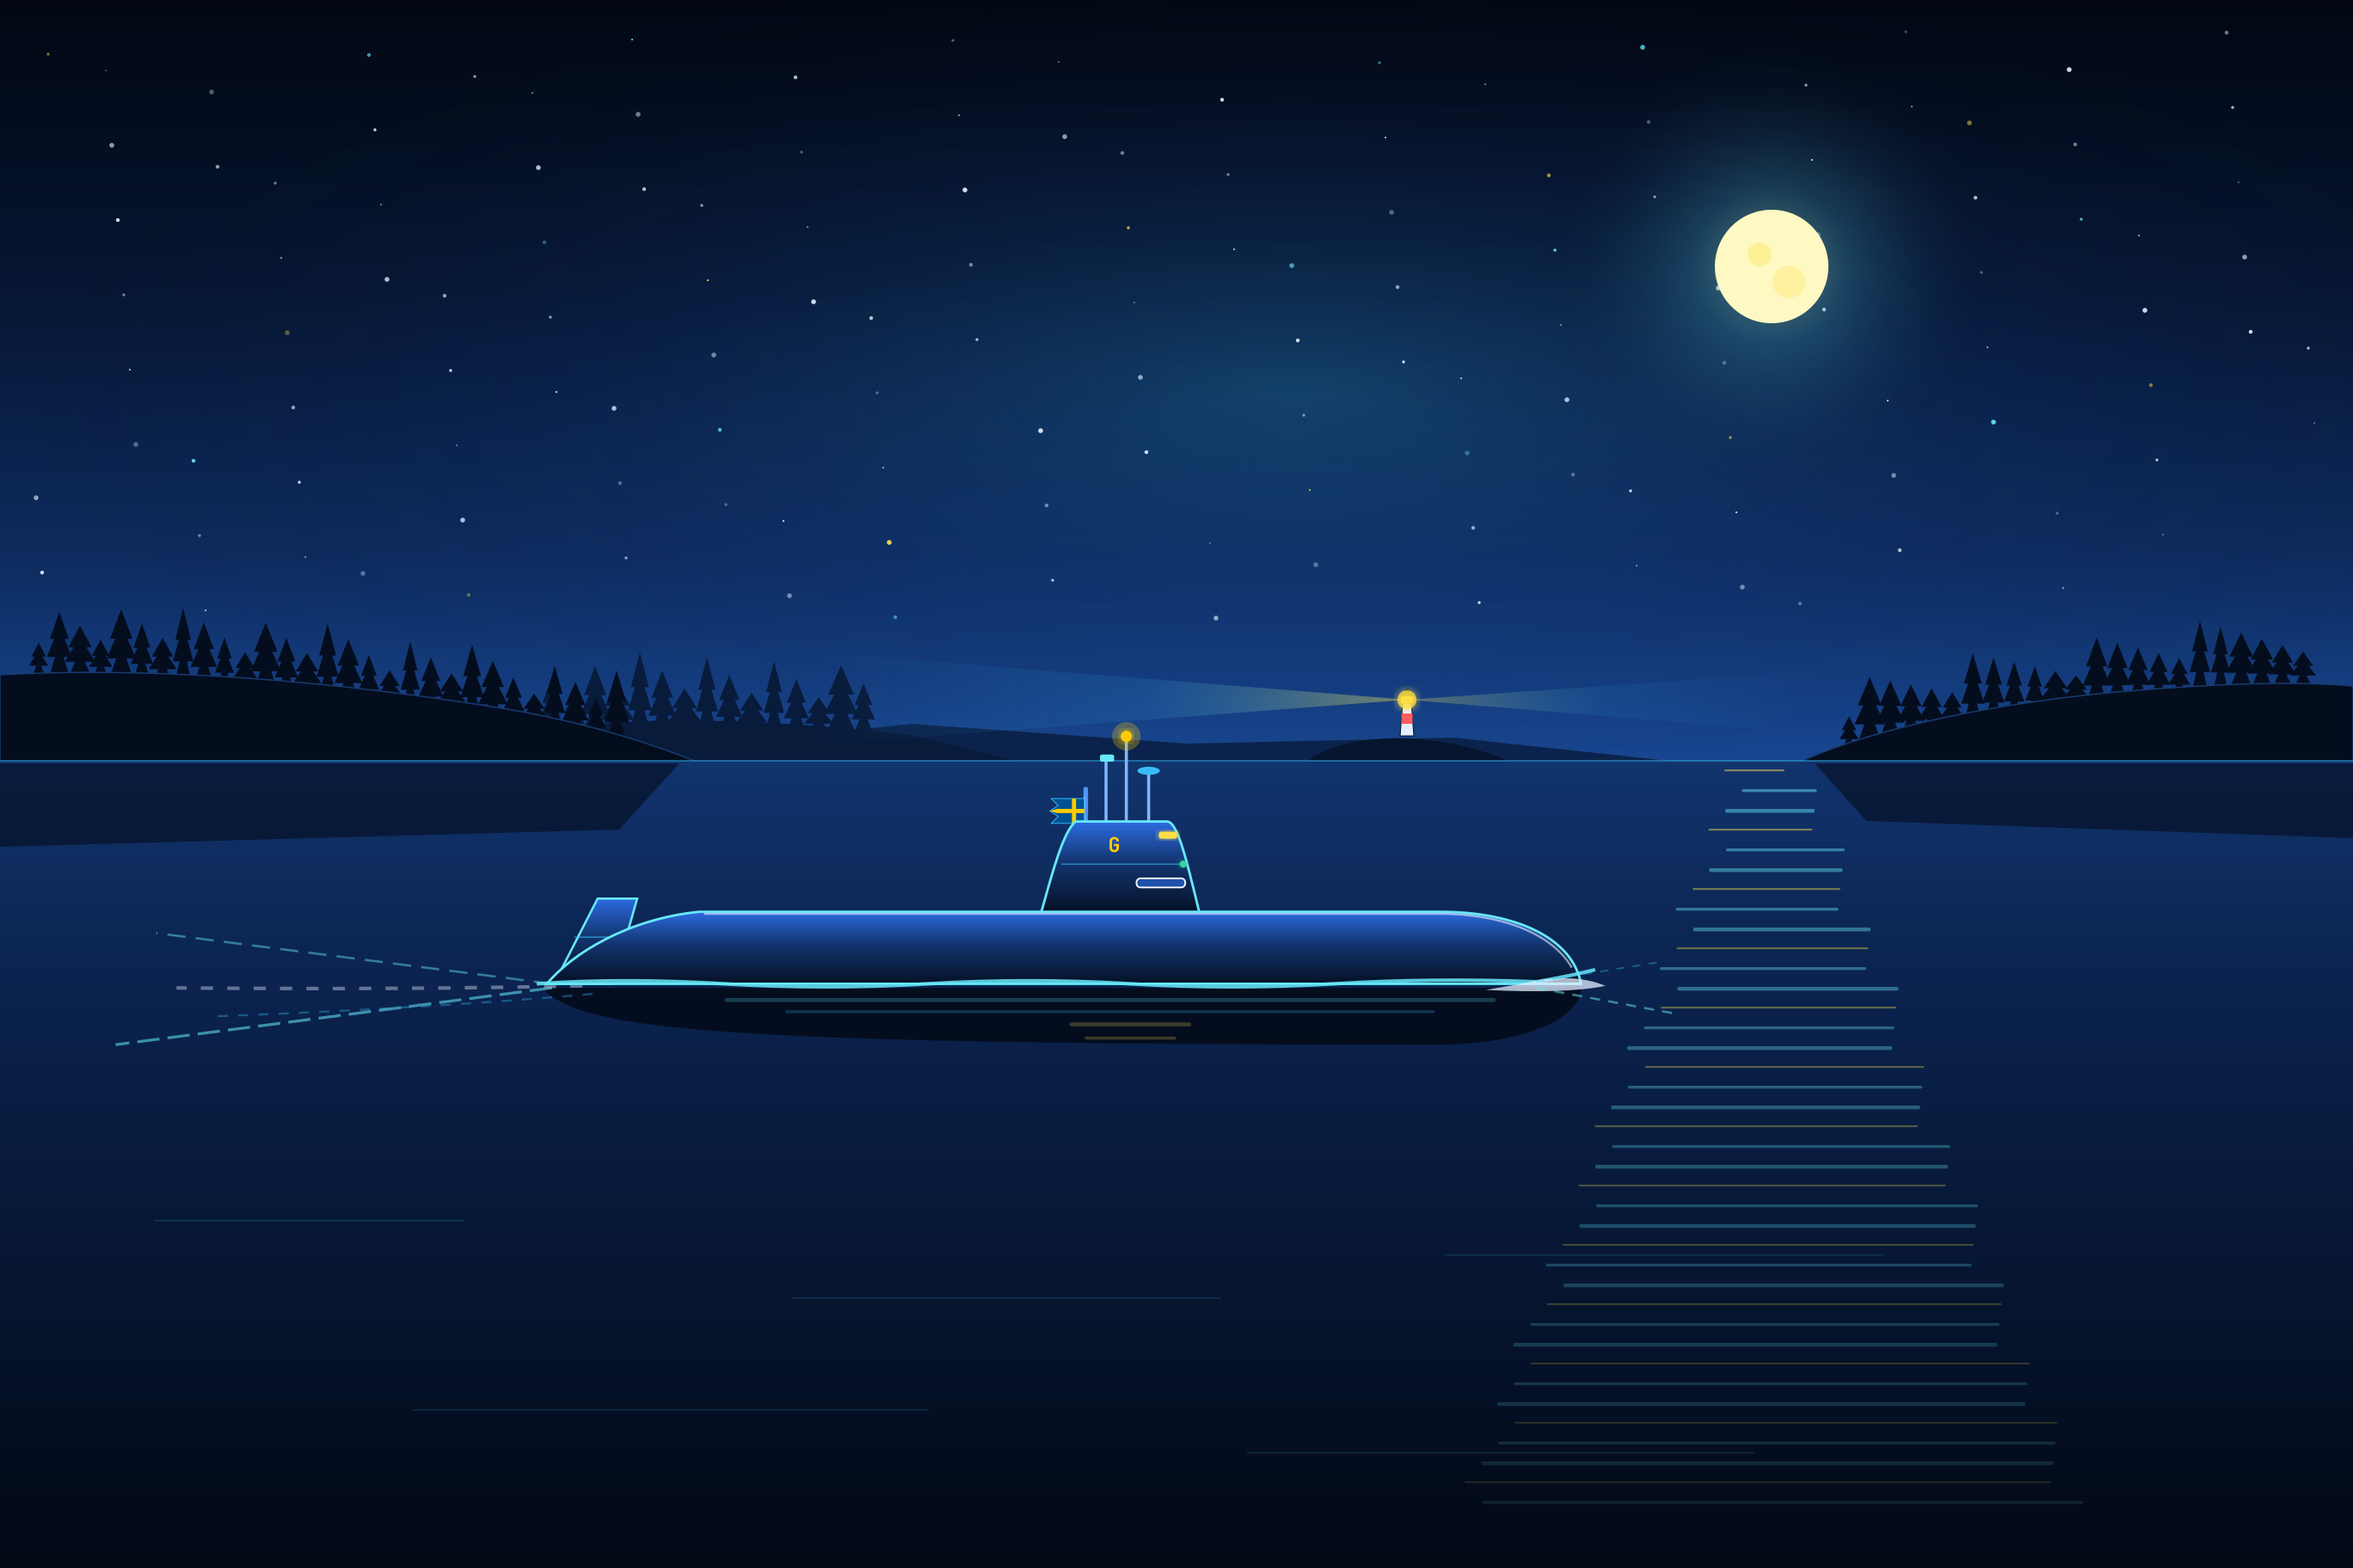
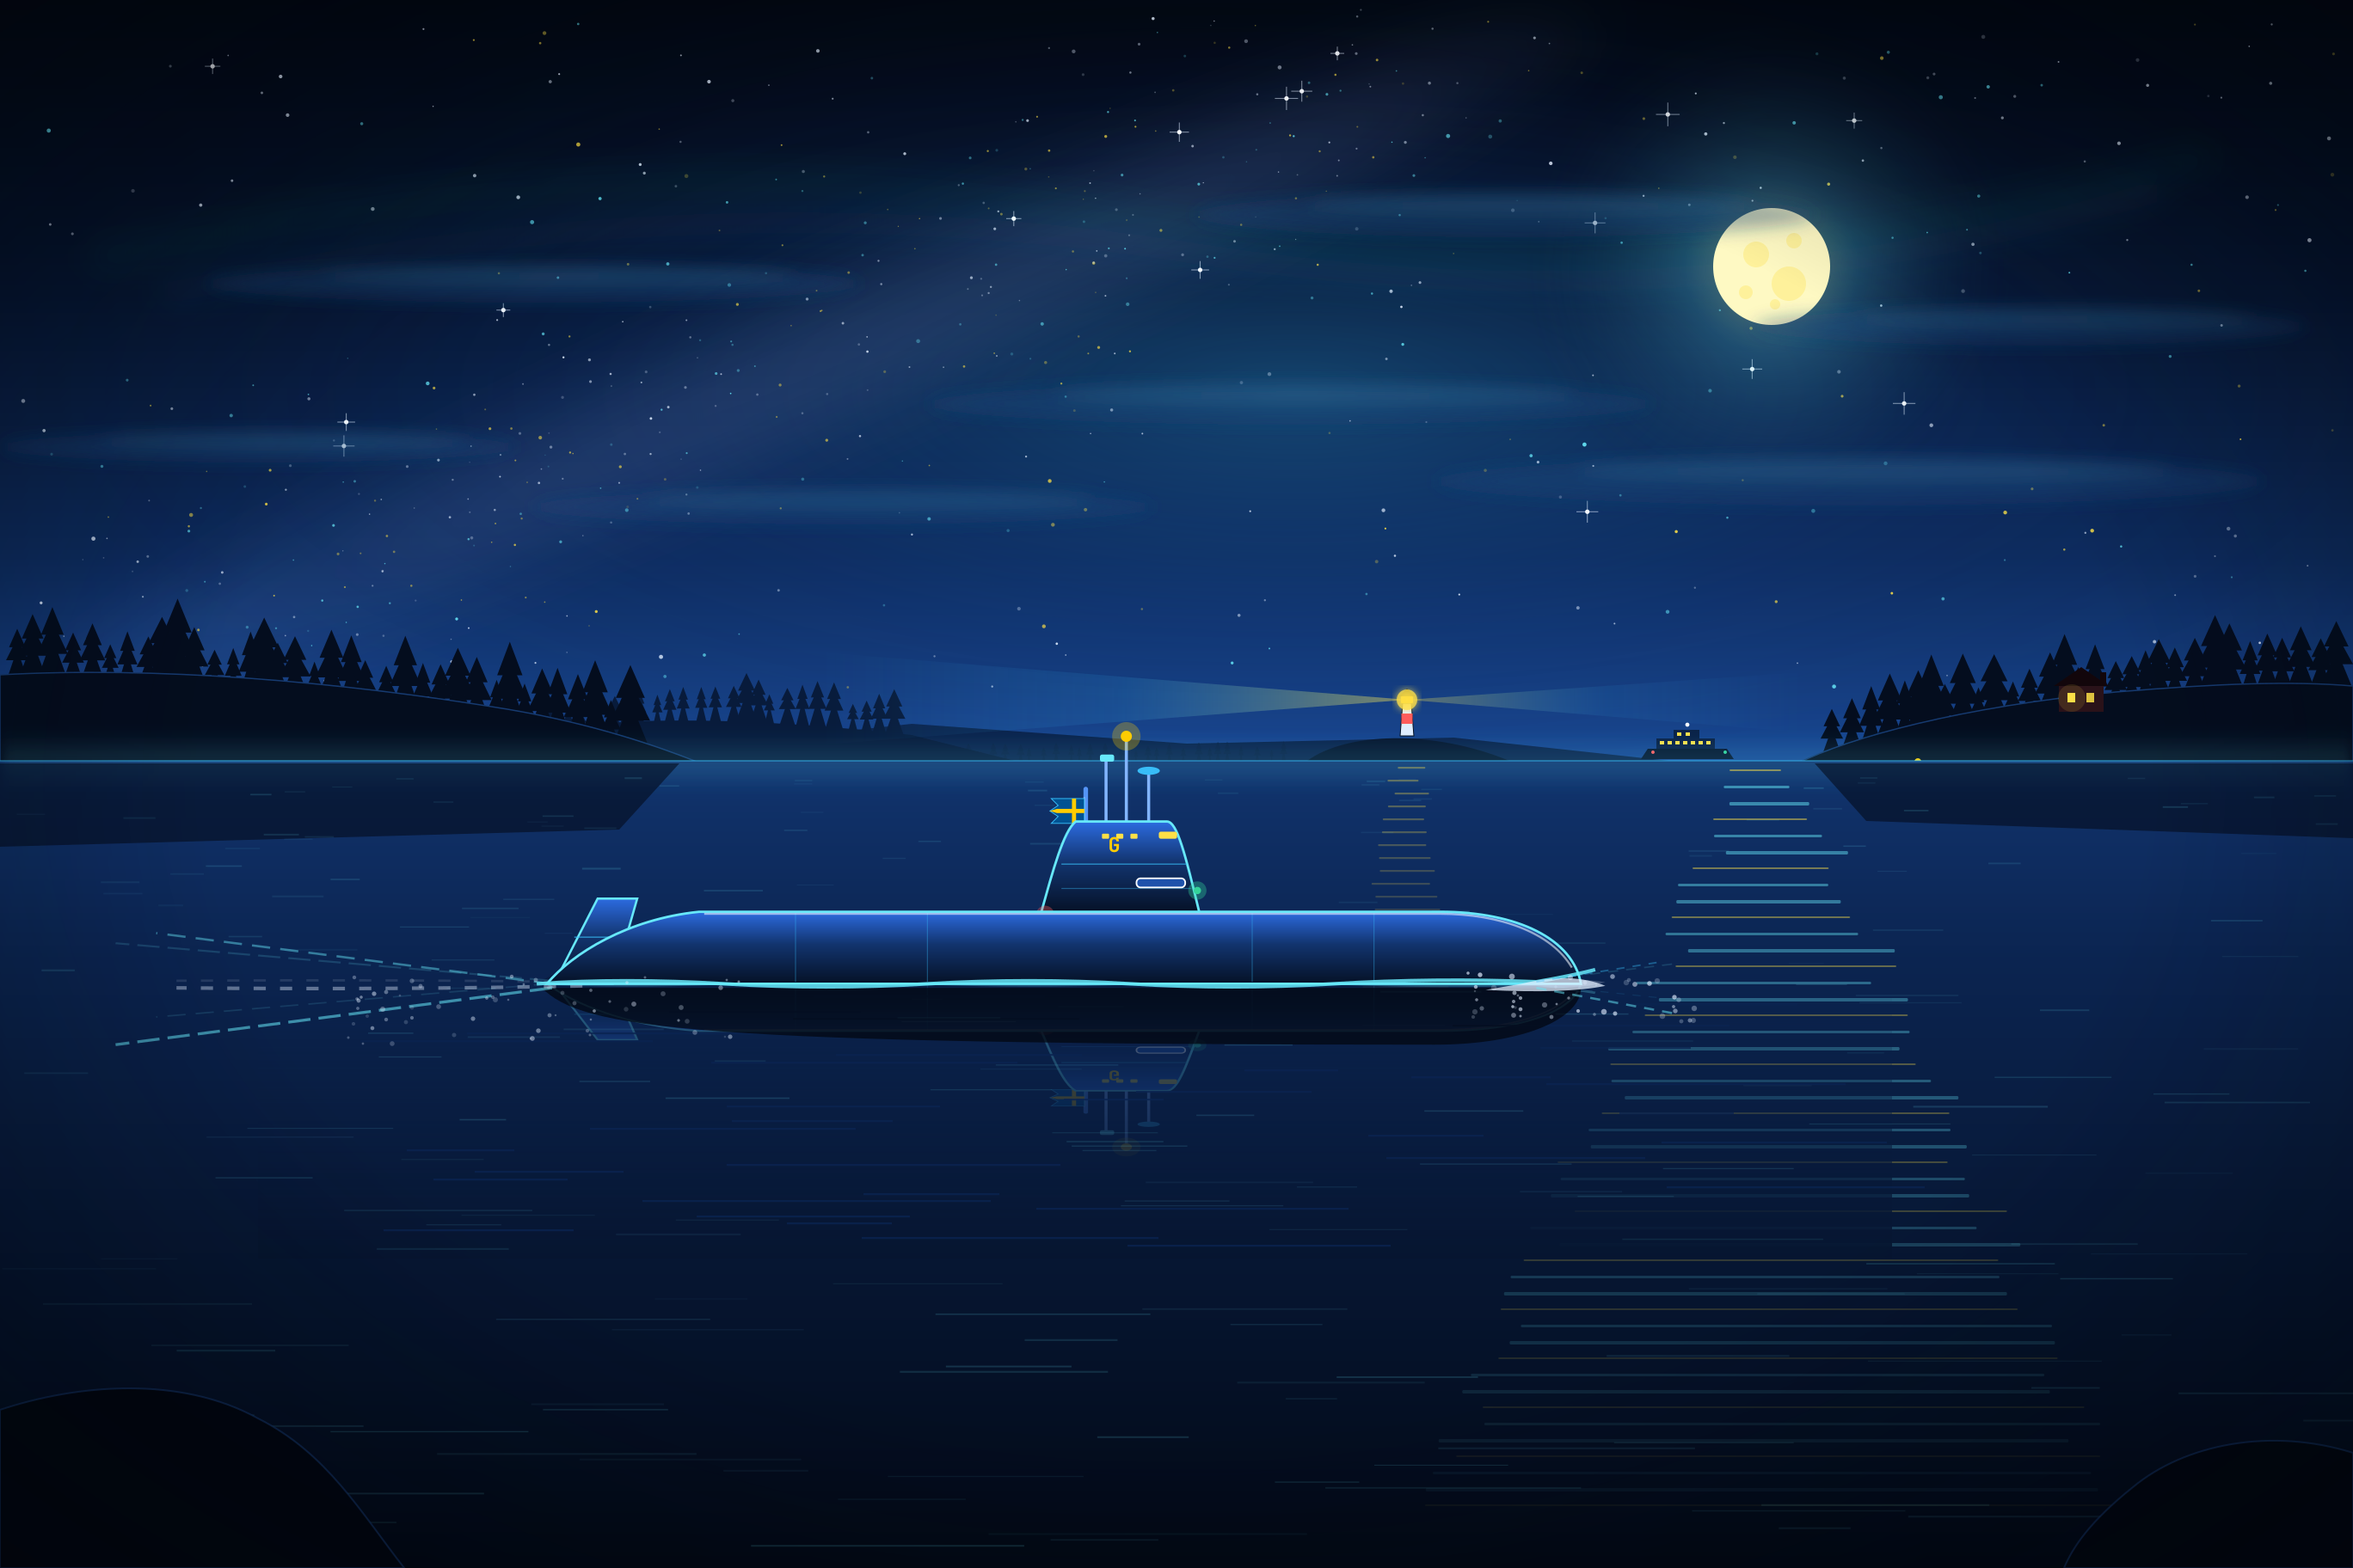
Enhance all 4 night-themed wallpapers with richer detail and replace 04 with Dawn Torpedo Run

diff --git a/README.md b/README.md
@@ -47,14 +47,14 @@ All four custom wallpapers are rendered at native `2736×1824` (3:2 Retina / Wid
         <img src="backgrounds/01-stockholm-archipelago-night-patrol.png" alt="01 — Stockholm Archipelago Night Departure" width="100%">
       </a>
       <br><b>01 · Stockholm Archipelago Night Departure (Default)</b>
-      <br><i>HSwMS Gotland</i> sailing out on the surface at night through <i>Stockholms skärgård</i> past pine-covered granite skerries, a glowing Swedish sector lighthouse (<i>ledfyr</i>), and moonlit Baltic waters.
+      <br><i>HSwMS Gotland</i> sailing out on the surface at night through <i>Stockholms skärgård</i> under the Milky Way and northern aurora, past pine-covered granite skerries, a glowing Swedish sector lighthouse (<i>ledfyr</i>), a lit archipelago ferry, and moonlit Baltic waters.
     </td>
     <td width="50%" align="center">
       <a href="backgrounds/02-hms-gotland-tactical-blueprint.png">
         <img src="backgrounds/02-hms-gotland-tactical-blueprint.png" alt="02 — HSwMS Gotland Naval Blueprint" width="100%">
       </a>
       <br><b>02 · HSwMS Gotland (A19) Naval Blueprint</b>
-      <br>Clean starboard elevation and top-down plan blueprint showing the Kockums V4-275R Stirling AIP cutaway, iconic Swedish X-rudder, bow/flank sonar arrays, and Three Crowns (<i>Tre Kronor</i>) naval emblem.
+      <br>Detailed starboard elevation, top-down plan, and three cross-section views (<code>SECTION A–A</code> Stirling AIP &amp; battery deck, <code>STERN · X-RUDDER</code> 4-fin X-rudder &amp; 7-blade skewback propeller, and <code>BOW · TUBES</code> 4× 533mm + 2× 400mm torpedo tubes).
     </td>
   </tr>
   <tr>
@@ -63,14 +63,14 @@ All four custom wallpapers are rendered at native `2736×1824` (3:2 Retina / Wid
         <img src="backgrounds/03-baltic-sonar-silent-running.png" alt="03 — Baltic Thermocline Silent Running" width="100%">
       </a>
       <br><b>03 · Baltic Thermocline — Silent Running</b>
-      <br>Deep Baltic Sea underwater scene below the halocline/thermocline with volumetric caustic light rays, abyssal seabed ridges, and a geometric passive/active sonar radar sweep.
+      <br>Deep Baltic Sea underwater scene below the halocline with a surface warship hull and cavitation trail above, a 17th-century sunken warship wreck on the seabed, bioluminescent marine life, and a passive/active sonar sweep.
     </td>
     <td width="50%" align="center">
-      <a href="backgrounds/04-subwrite-retro-arcade-patrol.png">
-        <img src="backgrounds/04-subwrite-retro-arcade-patrol.png" alt="04 — SubWrite C64 / 8-Bit Pixel Patrol" width="100%">
+      <a href="backgrounds/04-dawn-torpedo-run.png">
+        <img src="backgrounds/04-dawn-torpedo-run.png" alt="04 — Dawn Torpedo Run" width="100%">
       </a>
-      <br><b>04 · SubWrite 8-Bit Pixel Patrol (Navy Blue Edition)</b>
-      <br>The 8-bit <i>HSwMS Gotland</i> pixel sprite from <a href="https://subwrite.se">SubWrite</a> reimagined in Royal Swedish Navy Blue, Periscope Cyan, and Swedish Gold beneath a starry archipelago horizon.
+      <br><b>04 · Dawn Torpedo Run (Torped 62)</b>
+      <br>A Swedish heavyweight homing torpedo (<i>Torped 62</i>) cruising upward through dark navy water with counter-rotating propellers, wire-guidance filament, cavitation bubble trail, and acoustic homing lock toward a battleship silhouetted against a Baltic dawn horizon.
     </td>
   </tr>
 </table>
